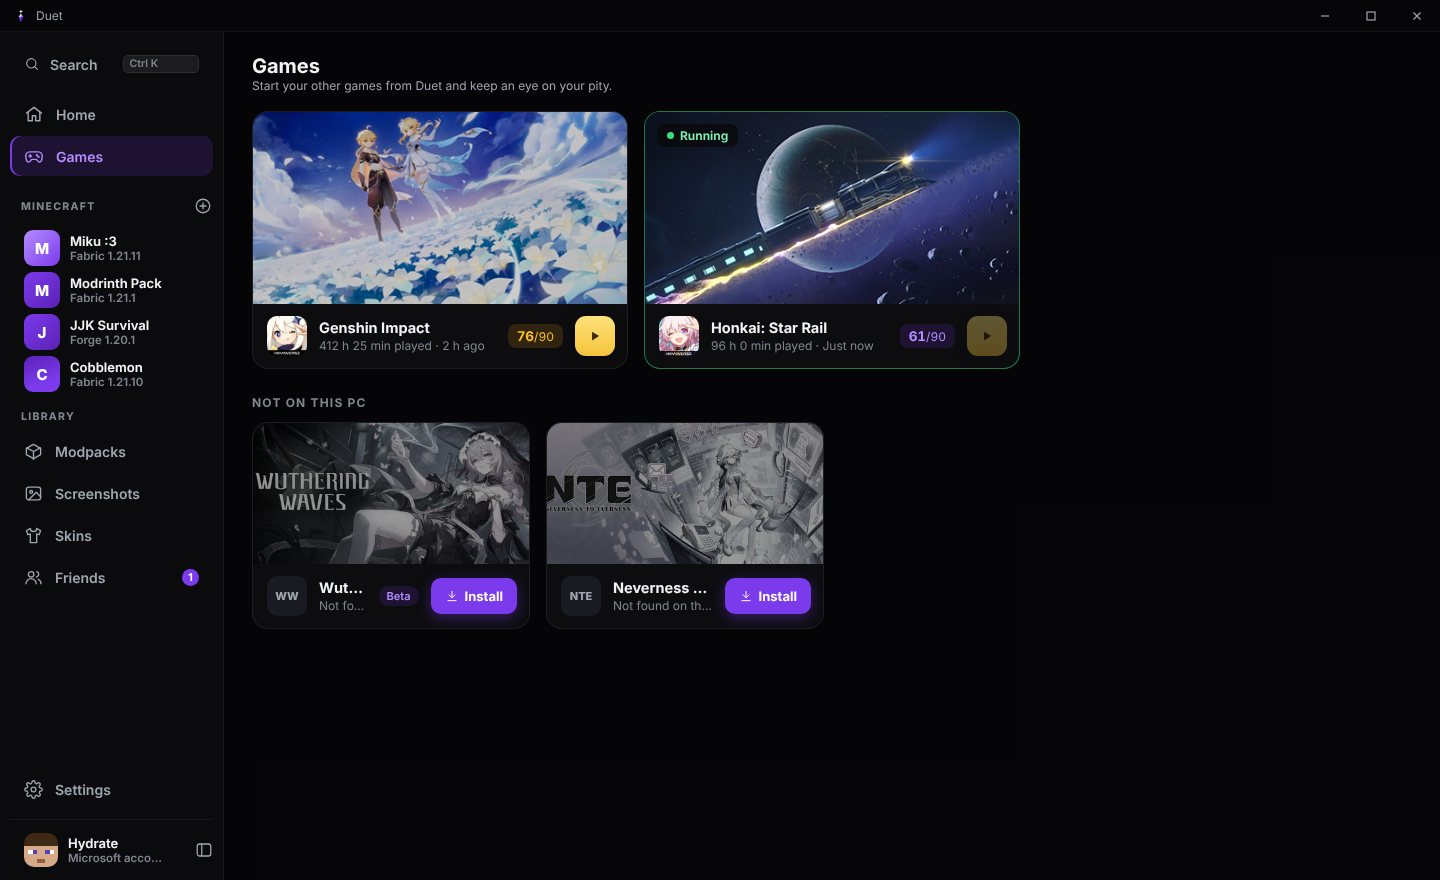
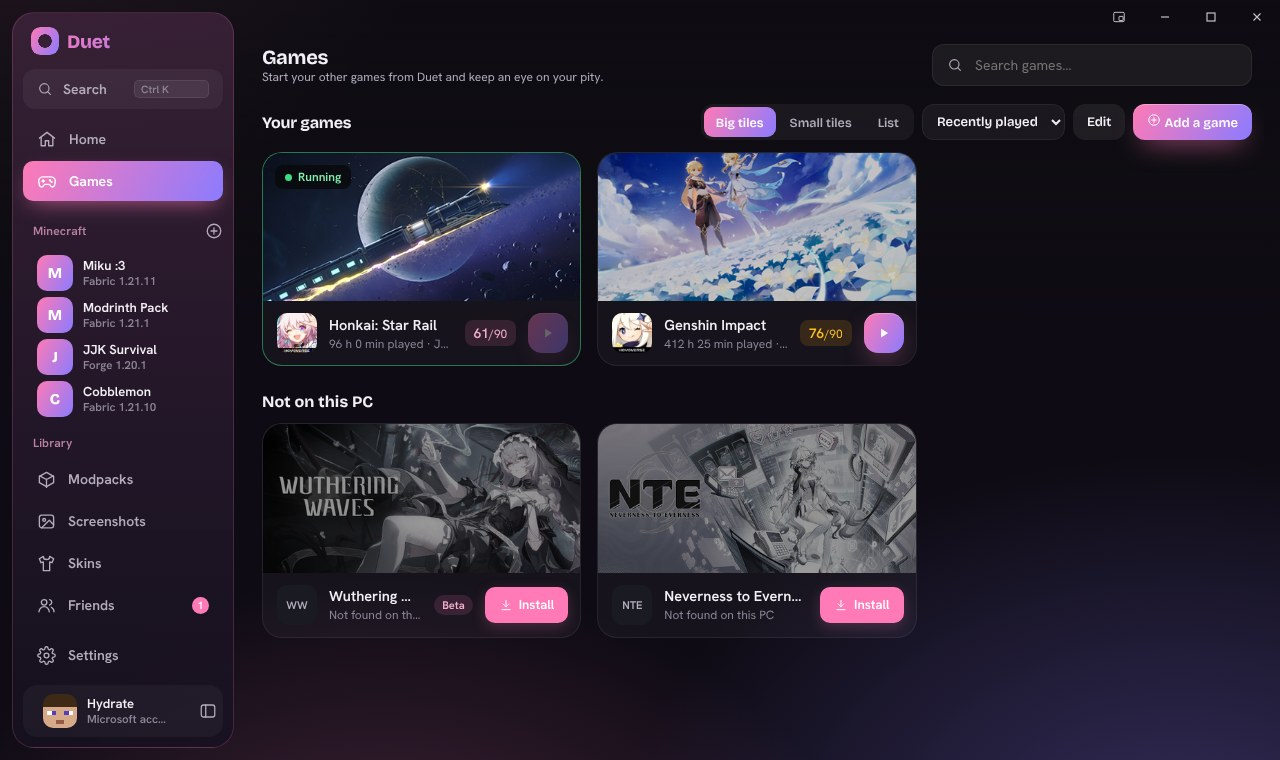
Duet 1.4: new look, colour themes, games layout, one-click Voxy fix
Claude-Session: https://claude.ai/code/session_019PJaeuPpXAg5U9wngcC8yc

diff --git a/docs/index.html b/docs/index.html
@@ -5,7 +5,7 @@
 <meta name="viewport" content="width=device-width, initial-scale=1">
 <title>Duet — one launcher for Minecraft and your other games</title>
 <meta name="description" content="Duet is a free launcher for Windows and Linux: Minecraft with one-click modpacks and built-in speed mods, plus Genshin Impact, Honkai: Star Rail, Wuthering Waves and NTE with pity tracking, Resin, daily check-in and redeem codes.">
-<meta property="og:title" content="Duet 1.3 — one launcher for all your games">
+<meta property="og:title" content="Duet 1.4 — one launcher for all your games">
 <meta property="og:description" content="Minecraft with modpacks and more FPS, plus Genshin, Star Rail, Wuthering Waves and NTE with pity tracking, Resin, check-in and codes.">
 <meta property="og:image" content="https://hydrate36.github.io/duet/banner.jpg">
 <meta name="theme-color" content="#7c3aed">
@@ -132,7 +132,7 @@ footer .legal{font-size:11.5px;letter-spacing:.2px;margin-top:8px;opacity:.7;max
 </div></nav>
 
 <header class="hero"><div class="wrap">
-  <a class="eyebrow" href="#new" id="ver"><b>New in 1.3</b> · Crash check before Play, worlds, CurseForge and all your games in one library</a>
+  <a class="eyebrow" href="#new" id="ver"><b>New in 1.4</b> · A fresh new look, colour themes, your games your way and one-click Voxy fixes</a>
   <h1>One launcher.<br><span class="grad">All your games.</span></h1>
   <p class="lead">Minecraft with one-click modpacks and more FPS — plus Genshin Impact, Honkai: Star Rail, Zenless Zone Zero, Wuthering Waves, NTE and every Steam and Epic game you own, with pity tracking, Resin, daily check-in and redeem codes in one place.</p>
   <div class="cta">
@@ -160,6 +160,21 @@ footer .legal{font-size:11.5px;letter-spacing:.2px;margin-top:8px;opacity:.7;max
 </header>
 
 <section id="new"><div class="wrap">
+  <div class="center reveal">
+    <span class="kicker gold">New in 1.4</span>
+    <h2>A fresh new look</h2>
+    <p class="sub">Duet got redesigned from the ground up: soft, rounded and full of colour, with your games front and centre.</p>
+  </div>
+  <div class="bento reveal">
+    <div class="tile w3 glow"><div class="ic"><svg viewBox="0 0 24 24" fill="none" stroke="currentColor" stroke-width="2" stroke-linecap="round" stroke-linejoin="round"><circle cx="13.5" cy="6.5" r="2.5"/><circle cx="19" cy="13" r="2.5"/><circle cx="6" cy="12" r="2.5"/><path d="M12 22a10 10 0 1 1 10-10c0 2.8-2.2 3-4 3h-2a2 2 0 0 0-1.4 3.4A2 2 0 0 1 12 22z"/></svg></div><h3>13 two-colour themes</h3><p>Every theme is a pair of colours, from Sakura to Ocean to Miku, and it runs through the whole app: buttons, bars, the background glow and the sidebar.</p></div>
+    <div class="tile w3"><div class="ic"><svg viewBox="0 0 24 24" fill="none" stroke="currentColor" stroke-width="2" stroke-linecap="round" stroke-linejoin="round"><rect x="3" y="3" width="7" height="7" rx="1.5"/><rect x="14" y="3" width="7" height="7" rx="1.5"/><rect x="3" y="14" width="7" height="7" rx="1.5"/><rect x="14" y="14" width="7" height="7" rx="1.5"/></svg></div><h3>Games your way</h3><p>Big tiles, small tiles or a list. Sort by recently played, most played or name, or drag games into your own order. Pin favourites, hide the rest, and search your whole library.</p></div>
+    <div class="tile w2"><div class="ic"><svg viewBox="0 0 24 24" fill="none" stroke="currentColor" stroke-width="2" stroke-linecap="round" stroke-linejoin="round"><path d="M14.7 6.3a4 4 0 0 0-5.4 5.4L3 18l3 3 6.3-6.3a4 4 0 0 0 5.4-5.4l-2.5 2.5-2.4-.6-.6-2.4z"/></svg></div><h3>Voxy fixed in one click</h3><p>If your Sodium keeps Voxy from loading, Fix it puts in the right Sodium plus matching Sodium Extra, Reese's Sodium Options and Iris. Old files are kept.</p></div>
+    <div class="tile w2"><div class="ic"><svg viewBox="0 0 24 24" fill="none" stroke="currentColor" stroke-width="2" stroke-linecap="round" stroke-linejoin="round"><path d="M5 4l14 8-14 8z"/></svg></div><h3>Skip known warnings</h3><p>Mods you know are fine stay skipped, even after they update. Or turn the check off for an instance.</p></div>
+    <div class="tile w2"><div class="ic"><svg viewBox="0 0 24 24" fill="none" stroke="currentColor" stroke-width="2" stroke-linecap="round" stroke-linejoin="round"><path d="M4 22h14a2 2 0 0 0 2-2V4a2 2 0 0 0-2-2H8a2 2 0 0 0-2 2v16a2 2 0 0 1-2 2zm0 0a2 2 0 0 1-2-2v-9c0-1.1.9-2 2-2h2"/><path d="M10 6h6M10 10h6M10 14h4"/></svg></div><h3>What's new, on Home</h3><p>Each Duet update shows up at the top of News with what changed and a button to update.</p></div>
+  </div>
+</div></section>
+
+<section id="new13"><div class="wrap">
   <div class="center reveal">
     <span class="kicker gold">New in 1.3</span>
     <h2>Fewer crashes, more control</h2>

diff --git a/README.md b/README.md
@@ -18,7 +18,7 @@
 <p align="center">
   <a href="https://github.com/Hydrate36/duet/releases/latest"><b>⬇ Download</b></a> &nbsp;·&nbsp;
   <a href="https://hydrate36.github.io/duet/">Website</a> &nbsp;·&nbsp;
-  <a href="#-new-in-13">What's new</a> &nbsp;·&nbsp;
+  <a href="#-new-in-14">What's new</a> &nbsp;·&nbsp;
   <a href="#-faq">FAQ</a>
 </p>
 
@@ -27,6 +27,20 @@
 <p align="center">
   <img src="docs/shot-home.jpg" alt="Duet's Home" width="92%">
 </p>
+
+## ✨ New in 1.4
+
+### 🎨 A fresh new look
+Duet got redesigned: soft and rounded, full of colour, with each game's own art across Home. Pick one of **13 two-colour themes** and the colours run through the whole app.
+
+### 🎮 Games your way
+Show your games as big tiles, small tiles or a list. Sort by recently played, most played or name, or drag them into your own order. Pin your favourites, hide what you don't play, and **search** your library.
+
+### 🛠 Voxy and Sodium, fixed in one click
+If your own Sodium keeps Voxy from loading, **Fix it** puts in the Sodium version Voxy needs and matching versions of Sodium Extra, Reese's Sodium Options and Iris. The old files are kept, never deleted.
+
+### ⚙ Everything else
+Skip mod warnings you already know about (they stay skipped after a mod update) or turn the check off per instance · Duet's own updates on Home, in News · dismiss update banners · every game in your library gets its picture · new logo
 
 ## ✨ New in 1.3
 
